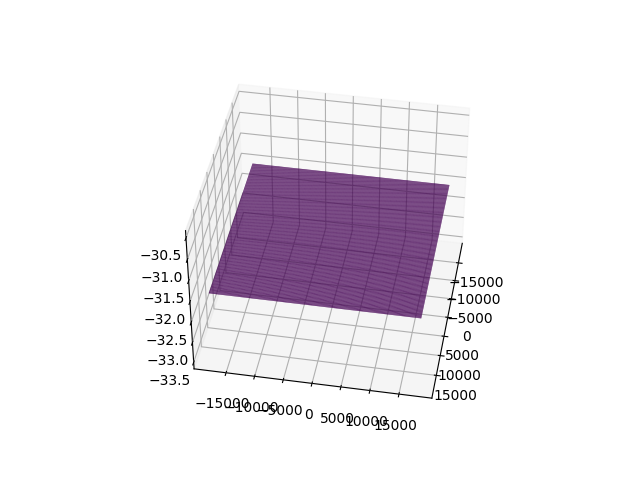
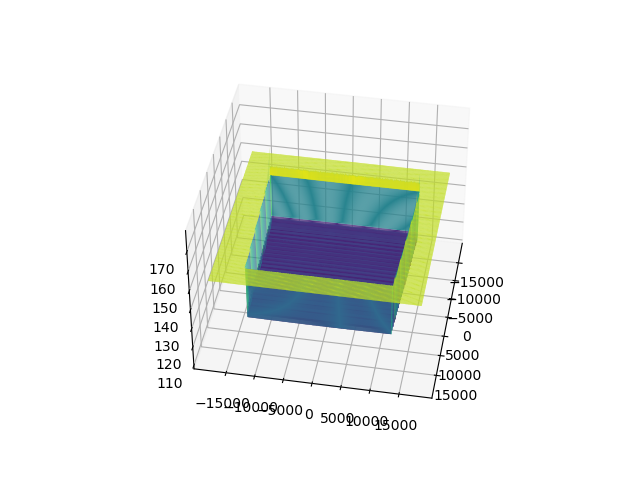
F

diff --git a/Cubito/Periodo 2 (2cm)/Algorithm-cubo2.py b/Cubito/Periodo 2 (2cm)/Algorithm-cubo2.py
@@ -73,8 +73,8 @@ np.set_printoptions(threshold=np.inf)
 #System setup values and real coordinates
 #All units in um
 l=400000  #(40cm)  #Distance between camera/projector plane and reference plane
-d=80000   #(8cm)Distance between camera and projector
-f=10000   #Frequency of the projected fringe
+d=50000   #(8cm)Distance between camera and projector
+f=20000   #Frequency of the projected fringe
 
 M=1024 #Number of pixels along x axis
 N=1024 #Number of pixels along y axis
@@ -116,10 +116,6 @@ realphase_r=unwraping(phase_r)  #Absolute phase calculation
 
 #3D object reconstruction
 z=reconst(realphase_ob,realphase_r,l,d,f)
-
-minimum=np.min(z)
-l=np.where(z>-20.) 
-z[l]=-32.
 
 
 

diff --git a/Cubito/Periodo 3 (4cm)/Algorithm-cubo3.py b/Cubito/Periodo 3 (4cm)/Algorithm-cubo3.py
@@ -73,8 +73,8 @@ np.set_printoptions(threshold=np.inf)
 #System setup values and real coordinates
 #All units in um
 l=400000  #(40cm)  #Distance between camera/projector plane and reference plane
-d=80000   #(8cm)Distance between camera and projector
-f=10000   #Frequency of the projected fringe
+d=50000   #(8cm)Distance between camera and projector
+f=40000   #Frequency of the projected fringe
 
 M=1024 #Number of pixels along x axis
 N=1024 #Number of pixels along y axis
@@ -117,9 +117,7 @@ realphase_r=unwraping(phase_r)  #Absolute phase calculation
 #3D object reconstruction
 z=reconst(realphase_ob,realphase_r,l,d,f)
 
-minimum=np.min(z)
-l=np.where(z>-20.) 
-z[l]=-32.
+
 
 
 

diff --git a/Cubito/Periodo 1 (1cm)/Algorithm-cubo1.py b/Cubito/Periodo 1 (1cm)/Algorithm-cubo1.py
@@ -73,7 +73,7 @@ np.set_printoptions(threshold=np.inf)
 #System setup values and real coordinates
 #All units in um
 l=400000  #(40cm)  #Distance between camera/projector plane and reference plane
-d=80000   #(8cm)Distance between camera and projector
+d=50000   #(8cm)Distance between camera and projector
 f=10000   #Frequency of the projected fringe
 
 M=1024 #Number of pixels along x axis
@@ -116,10 +116,6 @@ realphase_r=unwraping(phase_r)  #Absolute phase calculation
 
 #3D object reconstruction
 z=reconst(realphase_ob,realphase_r,l,d,f)
-
-minimum=np.min(z)
-l=np.where(z>-20.) 
-z[l]=-32.
 
 
 
